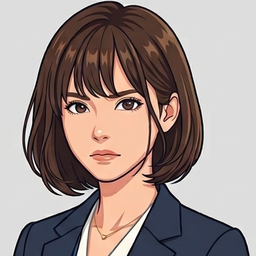
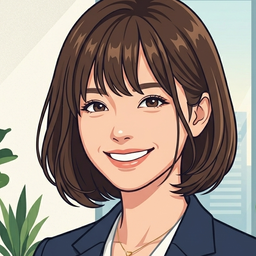
feat: 秘書子を倍のサイズにし、待機時の表情を微笑にする
- 人物を60px -> 120px に拡大し、吹き出しの文字としっぽの位置も合わせた
- 待機・入力時は「微笑」、AI実行中は「まじめ顔」、完了は「笑顔」
- 画面を移るたびに既定（微笑・吹き出しなし）へ戻す Hishoko.reset() を追加
- 元画像を 秘書子/ボブ/ に整理（髪型違いを追加できる構成）
- アドレス帳と複数宛先の実装計画を追記

diff --git a/src/renderer/styles.css b/src/renderer/styles.css
@@ -309,7 +309,7 @@ button.ghost:hover { background: var(--accent-weak); color: var(--text); }
   flex-direction: column;
   align-items: flex-end;
   gap: 8px;
-  max-width: min(280px, calc(100vw - 40px));
+  max-width: min(340px, calc(100vw - 40px));
 }
 
 .hishoko-bubble {
@@ -322,15 +322,15 @@ button.ghost:hover { background: var(--accent-weak); color: var(--text); }
 }
 .hishoko-bubble p {
   margin: 0;
-  font-size: 12.5px;
-  line-height: 1.6;
+  font-size: 13px;
+  line-height: 1.65;
   color: var(--text);
   white-space: pre-wrap;
 }
 .hishoko-bubble::after {
   content: "";
   position: absolute;
-  right: 22px;
+  right: 52px;
   bottom: -7px;
   width: 12px;
   height: 12px;
@@ -342,11 +342,11 @@ button.ghost:hover { background: var(--accent-weak); color: var(--text); }
 
 .hishoko-figure {
   position: relative;
-  width: 60px;
-  height: 60px;
+  width: 120px;
+  height: 120px;
   border-radius: 50%;
   background: var(--accent-weak);
-  border: 2px solid var(--accent);
+  border: 3px solid var(--accent);
   overflow: hidden;
   cursor: pointer;
   flex: 0 0 auto;
@@ -357,10 +357,10 @@ button.ghost:hover { background: var(--accent-weak); color: var(--text); }
   display: flex;
   align-items: center;
   justify-content: center;
-  font-size: 11px;
+  font-size: 13px;
   color: var(--accent);
   text-align: center;
-  padding: 2px;
+  padding: 4px;
 }
 .hishoko-img {
   position: absolute;

diff --git a/src/renderer/app.js b/src/renderer/app.js
@@ -13,6 +13,10 @@ const App = {
     this.backBtn.hidden = this.history.length <= 1;
     this.el.innerHTML = '';
 
+    // 画面を移ったら秘書子はいったん既定（微笑・吹き出しなし）に戻す。
+    // 伝えることがある画面は、このあと自分で say() して上書きする。
+    if (window.Hishoko) Hishoko.reset();
+
     // 画面によっては render が非同期（設定や履歴の読み込みを待つ）。
     // 待っている間に別画面へ移ると、古い画面の要素が今の画面に紛れ込んでしまう。
     // そこで、いったん画面から切り離した器に描き、描き終わった時点で

diff --git a/src/renderer/hishoko.js b/src/renderer/hishoko.js
@@ -108,5 +108,13 @@ window.Hishoko = (function () {
     paintBubbleVisibility();
   }
 
-  return { say, clear };
+  // 画面を移ったときの既定の状態に戻す。表情は「微笑」。
+  // 画面ごとに伝えることがあれば、そのあと say() で上書きされる。
+  function reset() {
+    ensureBuilt();
+    setExpression('normal');
+    clear();
+  }
+
+  return { say, clear, reset };
 }());

diff --git a/docs/実装計画.md b/docs/実装計画.md
@@ -2804,3 +2804,118 @@ preload: `taskList` `taskAdd` `taskUpdate` `taskRemove` `taskToggle` `taskParse`
 **確認**（自動テストではなく目視）:
 - 画像が無い状態でも吹き出しが出る
 - 期限切れ・今日のタスクを作ると、画面を開いたときに件数が伝わる
+
+---
+
+# アドレス帳と複数宛先（ユーザー承認済み）
+
+決まっていること: 複数宛先は**1通にまとめて宛名は「各位」**／**To・CC・BCC すべて使える**／
+**グループ（一括選択）あり**／**既存の宛先履歴はアドレス帳に取り込む**。
+
+## Task 24: アドレス帳のデータ層
+
+**新規** `src/main/contacts.js`（保存はしない純粋な関数。Electron 非依存）
+
+```
+migrate(raw) -> { version: 2, contacts: [...], groups: [...] }
+  旧形式（宛先履歴の配列）を受け取ったら contacts に変換する。
+  null・壊れたデータ・すでに新形式、のいずれでも落ちない。
+  id は連絡先ごとに一意（`c-<8桁ランダム>`）。
+upsertContact(book, contact, nowIso) -> book
+  email（小文字化・前後空白除去）で同一判定。既存があれば上書きし lastUsedAt を更新。
+  email が空なら何もしない。上限は設けない（アドレス帳は履歴ではなく資産のため）。
+removeContact(book, id) -> book        グループの memberIds からも取り除く
+upsertGroup(book, group) -> book        id が無ければ採番（`g-<8桁ランダム>`）
+removeGroup(book, id) -> book
+resolveGroup(book, groupId) -> contact[]   存在しないメンバーIDは黙って飛ばす
+sortContacts(list) -> list              会社名→氏名の順（日本語は localeCompare('ja')）
+```
+
+**テスト** `test/contacts.test.js`:
+- 旧形式（配列）を渡すと contacts に移行され、email/会社/氏名/敬称が保たれる
+- null・`{}`・文字列・配列でないものを渡しても落ちず、空のアドレス帳を返す
+- すでに新形式ならそのまま返す（二重移行しない）
+- `upsertContact` が大文字小文字・前後空白の違う同じメールを同一とみなす
+- email が空の連絡先は追加されない
+- `removeContact` で、その人が入っていたグループの memberIds からも消える
+- `upsertGroup` が新規は採番し、既存は上書きする
+- `resolveGroup` が存在しないメンバーIDを飛ばし、残りを返す
+- `sortContacts` が会社名→氏名で並ぶ
+
+## Task 25: 複数宛先の宛名と下書き
+
+### 25-1. 宛名（`src/main/mail-compose/prompt.js` に追加）
+
+```
+buildAddressBlockMulti(recipients) -> string
+```
+
+- 0件 → 空文字
+- 1件 → 既存の `buildAddressBlock` と**まったく同じ結果**（既存の動きを変えない）
+- 2件以上 → 「各位」でまとめる。会社・部署の共通度で文言を変える:
+  - 全員が同じ会社かつ同じ部署 → `株式会社○○\n営業部 各位`
+  - 全員が同じ会社（部署はバラバラ／未入力） → `株式会社○○ 各位`
+  - 会社がバラバラ → `関係者各位`
+- 比較は前後の空白を除いた文字列で行う。空欄は「未入力」であって共通ではない扱い
+
+**テスト**（`test/prompt.test.js` に追加）:
+- 1件のときは `buildAddressBlock` と同じ結果になる
+- 同じ会社・同じ部署の2件 → `株式会社○○\n営業部 各位`
+- 同じ会社・部署違い → `株式会社○○ 各位`
+- 会社違い → `関係者各位`
+- 会社が全員未入力 → `関係者各位`
+- 0件 → 空文字
+
+### 25-2. CC・BCC（`src/main/mail-compose/draft.js`）
+
+```
+buildGmailUrl({ to, cc, bcc, subject, body })
+openOutlookDraft({ to, cc, bcc, subject, body })
+```
+
+- `to` / `cc` / `bcc` は**文字列でも配列でも受け付ける**。配列は `; ` で連結する
+  （既存の呼び出しが文字列を渡しているため、壊さないこと）
+- 空の cc / bcc は URL にパラメータを付けない
+- Gmail の URL パラメータは `to` `cc` `bcc` `su` `body`
+
+**`src/main/mail-compose/draft-outlook.ps1`**: `$mail.CC` と `$mail.BCC` を設定する。
+**このファイルは UTF-8 BOM 付きで保存されている。BOM を絶対に壊さないこと**
+（BOM が無いと PowerShell が Shift-JIS として読み、日本語コメントが壊れて構文エラーになる。
+過去に実際に起きた不具合。`test/draft.test.js` に回帰テストがある）。
+
+**テスト**（`test/draft.test.js` に追加）:
+- cc / bcc が URL に入る。空なら付かない
+- 配列を渡すと `; ` で連結される（Gmail URL では `,` ではなく `;` でよい）
+- 既存の呼び出し（文字列の to だけ）が今までどおり動く
+
+## Task 26: 画面（アドレス帳と宛先の複数選択）
+
+**新規** `src/renderer/views/addressbook.js`
+
+- メール文面作成のサブメニューに「アドレス帳」のカードを追加（`views/mailmenu.js`）
+- 一覧（会社→氏名順）、追加、編集、削除
+- グループの作成・編集・削除。グループ編集では所属メンバーをチェックで選ぶ
+
+**変更** `src/renderer/views/compose.js` の宛先欄
+
+- 「アドレス帳から選ぶ」で選択画面を出し、**複数選択**できる。グループを選ぶと一括で入る
+- 選んだ相手は chip で並び、各 chip で **To / CC / BCC を切り替え**、× で外せる
+- アドレス帳に無い相手のために、**直接入力の欄も残す**（入力して追加すると chip になる）
+- 宛先が1件のときの見た目と結果は、これまでと変わらないようにする
+
+**IPC**: `book:get` `book:upsertContact` `book:removeContact` `book:upsertGroup` `book:removeGroup`
+**preload**: `bookGet` `bookUpsertContact` `bookRemoveContact` `bookUpsertGroup` `bookRemoveGroup`
+
+**`src/main/mail-compose/index.js`**:
+- `mail:generate` の入力を `recipients: [{ email, company, department, name, honorific, field }]` に変える
+  （`field` は `to` / `cc` / `bcc`）。**旧来の単一 `recipient` も受け付けて動くようにする**
+- 宛名は `buildAddressBlockMulti`（To の相手だけを使う。CC・BCC は宛名に含めない）
+- 生成後、**選んだ全員をアドレス帳に upsert** する
+- `mail:openOutlook` / `mail:openGmail` に cc / bcc を渡す
+
+**`electron/main.js`**: `contacts.json` の読み書きを `migrate` 経由にする
+（起動時に旧形式なら新形式へ移行して保存し直す）
+
+**確認**（目視）:
+- 既存の1件だけの宛先での作成が今までどおり動く
+- 3件選んで作ると宛名が「各位」になり、Outlook の下書きに To/CC/BCC が入る
